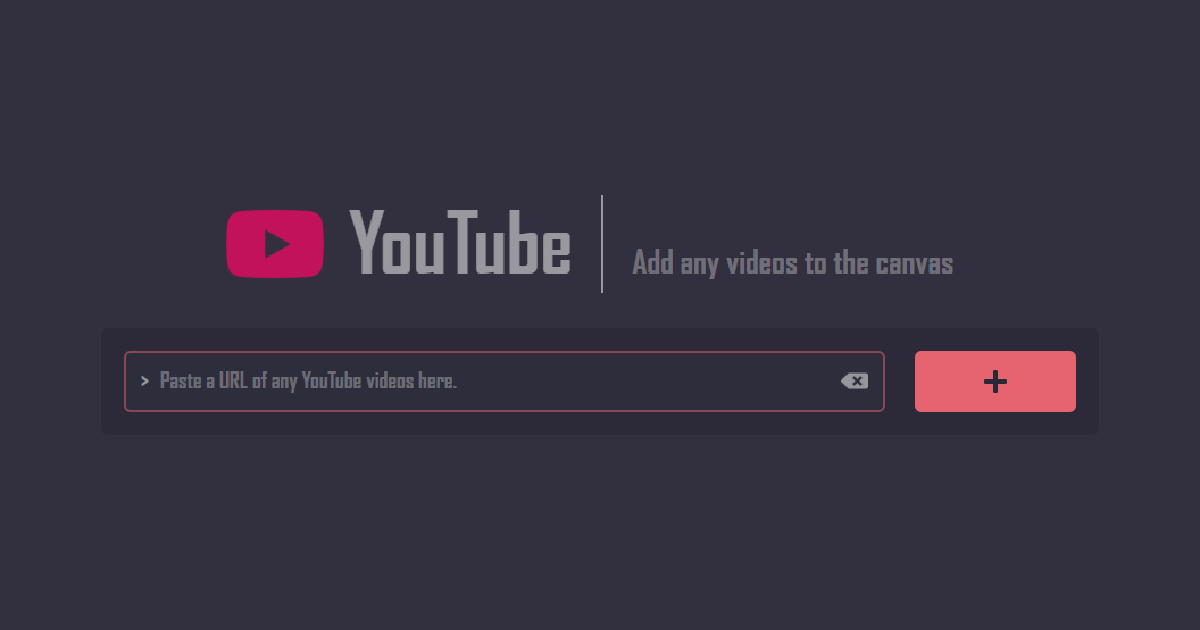
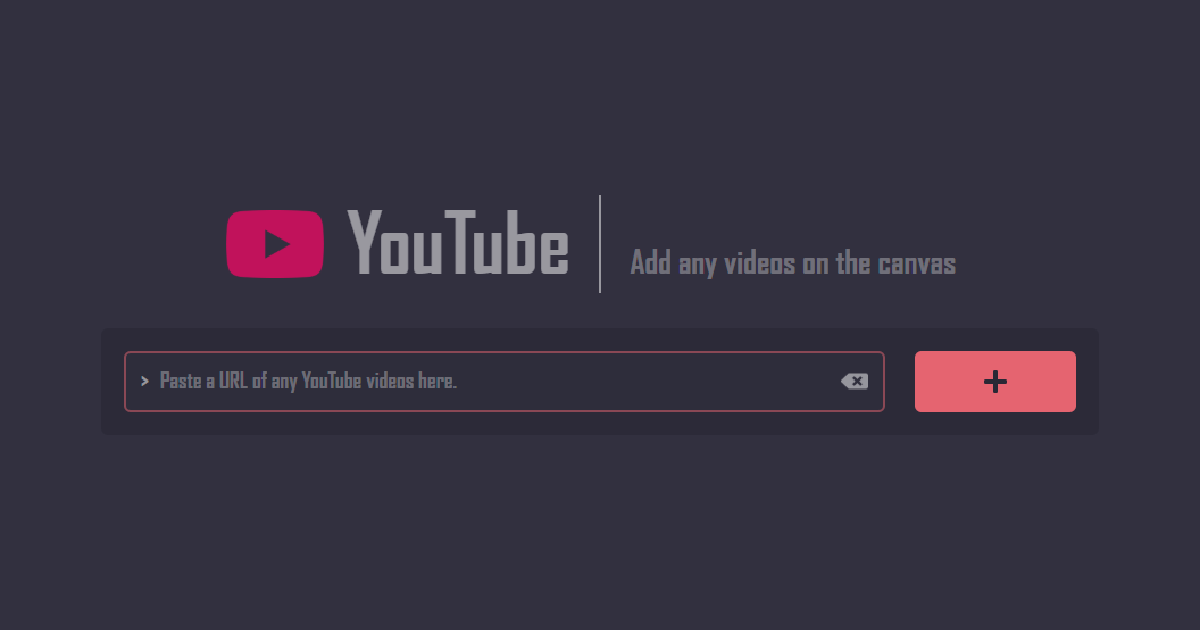
added a new column to the webservice page

Changed region(s): [[0.4933, 0.3317, 0.8017, 0.4524], [0.2775, 0.3317, 0.4625, 0.4524]]

diff --git a/works/webservice/colpick-eve/index.html b/works/webservice/colpick-eve/index.html
@@ -9,17 +9,17 @@
     <meta name="format-detection" content="telephone=no">
     <title>COLPICK EVE -β-</title>
     <meta name="keywords" content="">
-    <meta name="description"
-        content="The COLPICK EVE is a module function of the 'CANVAS EVE'. This service is separated due to test purpose.">
+    <meta name="description" content="The COLPICK EVE is a module function of the 'CANVAS EVE'. Drop any images and PSD files on the canvas,
+        and get preferred colors from a selected image with spuit.">
     <meta name="author" content="NkiHrk">
     <meta name="copyright" content="&copy; NkiHrk">
     <meta property="og:title" content="COLPICK EVE -β-">
     <meta property="og:type" content="website">
-    <meta property="og:description"
-        content="The COLPICK EVE is the module function of the 'CANVAS EVE'. This service is separated due to the test purpose.">
+    <meta property="og:description" content="The COLPICK EVE is a module function of the 'CANVAS EVE'. Drop any images and PSD files on the canvas,
+        and get preferred colors from a selected image with spuit.">
     <meta property="og:url" content="https://nkihrk.github.io">
     <meta property="og:site_name" content="NkiHrk.github.io">
-    <!-- <meta property="og:image" content="https://nkihrk.github.io/img/common/youtube_eve_ogp.png"> -->
+    <meta property="og:image" content="https://nkihrk.github.io/img/common/colpick_eve_ogp.png">
     <meta property="og:locale" content="en_US">
 
     <!-- Twitter -->

diff --git a/works/webservice/youtube-eve/index.html b/works/webservice/youtube-eve/index.html
@@ -9,14 +9,14 @@
     <meta name="format-detection" content="telephone=no">
     <title>YOUTUBE EVE -β-</title>
     <meta name="keywords" content="">
-    <meta name="description"
-        content="The YOUTUBE EVE is a module function of the 'CANVAS EVE'. This service is separated due to test purpose.">
+    <meta name="description" content="The YOUTUBE EVE is a module function of the 'CANVAS EVE'. Add any youtube videos on the canvas, and do
+        some transforms to them.">
     <meta name="author" content="NkiHrk">
     <meta name="copyright" content="&copy; NkiHrk">
     <meta property="og:title" content="YOUTUBE EVE -β-">
     <meta property="og:type" content="website">
-    <meta property="og:description"
-        content="The YOUTUBE EVE is the module function of the 'CANVAS EVE'. This service is separated due to the test purpose.">
+    <meta property="og:description" content="The YOUTUBE EVE is a module function of the 'CANVAS EVE'. Add any youtube videos on the canvas, and do
+        some transforms to them.">
     <meta property="og:url" content="https://nkihrk.github.io">
     <meta property="og:site_name" content="NkiHrk.github.io">
     <meta property="og:image" content="https://nkihrk.github.io/img/common/youtube_eve_ogp.png">

diff --git a/js/common/lib.js b/js/common/lib.js
@@ -136,7 +136,7 @@
     insertMenuWebservice = function (json) {
         for (var i in json) {
             let subMenu = '<li>' +
-                '<a href="' + json[i].url + '" target="_blank">' +
+                '<a href="' + json[i].url.link + '" target="_blank">' +
                 '<span class="sub-menu-li-common">' +
                 json[i].name +
                 '</span>' +

diff --git a/js/common/common.js b/js/common/common.js
@@ -85,9 +85,8 @@
 
 
         // Insert a JSON data to post-columns
-        $.getJSON("/js/common/json/menu.json", function (menu_list) {
-            const webservice = menu_list.webservice;
-            insertMenuWebservice(webservice);
+        $.getJSON("/js/common/json/webservice.json", function (menu_list) {
+            insertMenuWebservice(menu_list);
         });
 
 
